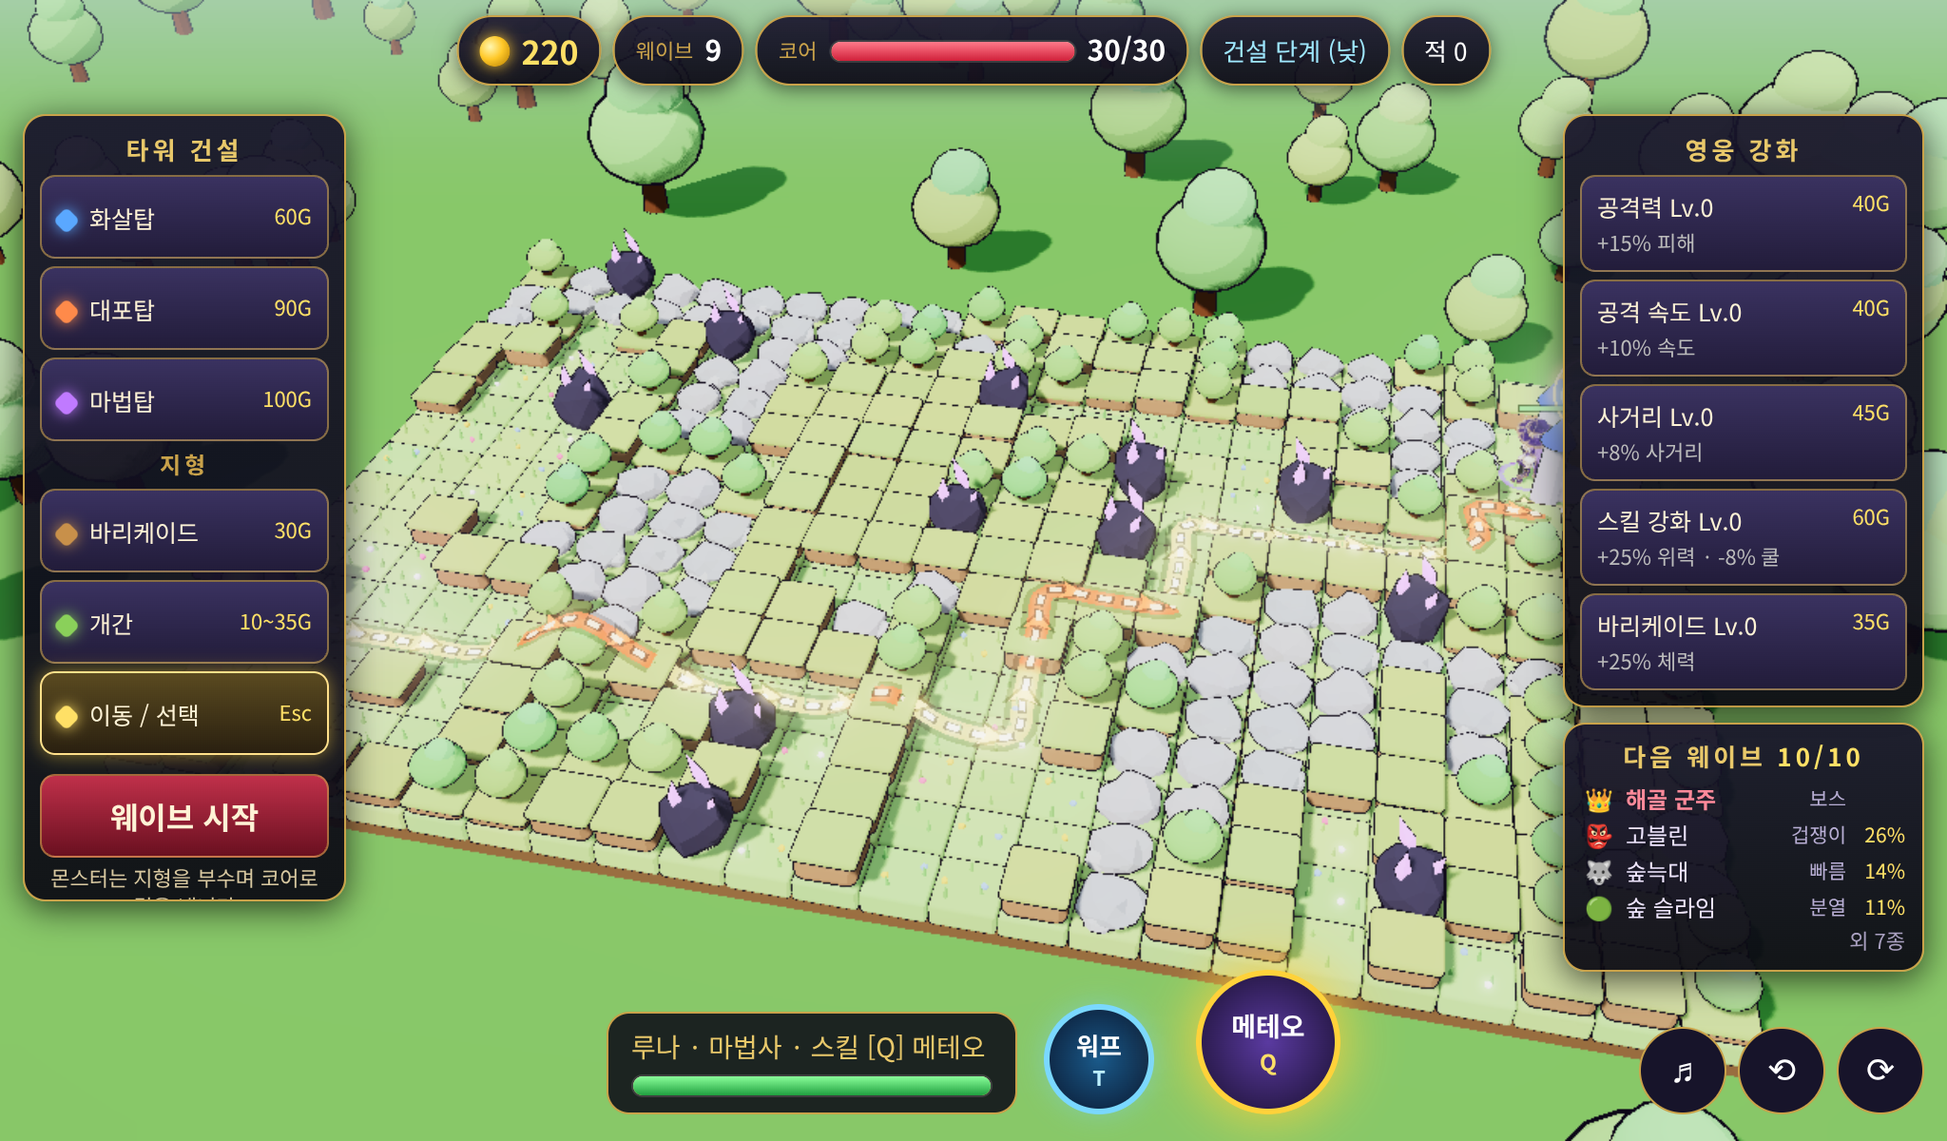
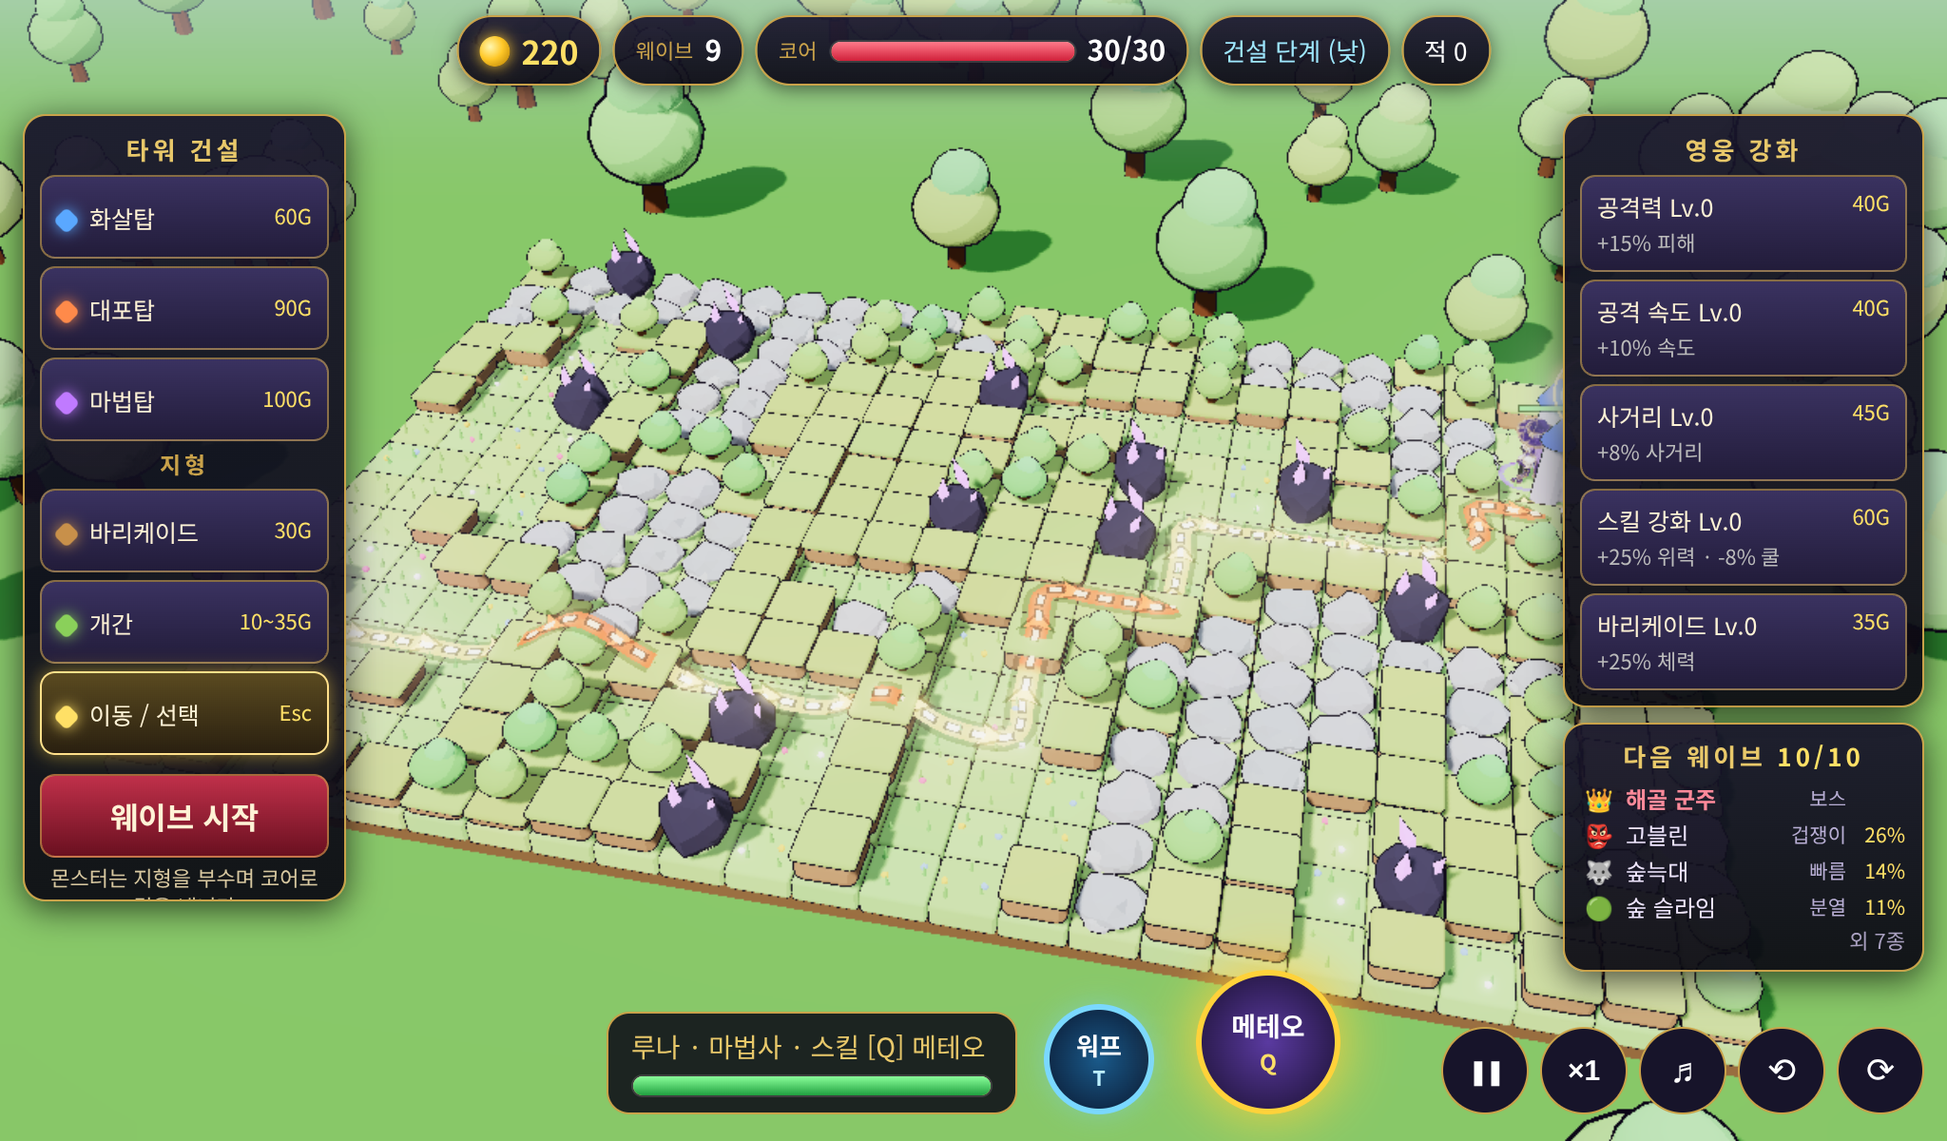
5. ×2 배속 / 일시정지: 같은 길이 스텝 G.speed 번(큰 dt 아님), 일시정지 = 시뮬레이션·키·클릭 차단 + 오버레이, 탭 숨김 시 자동 정지, 판 밖이면 ×1·해제. 터치 46px, P/F 키. speed.py 17/17, waveprev 14/14, tablet 203/203, regress 4 known, node 8/8

Changed region(s): [[0.7188, 0.8942, 0.8438, 0.9867]]

diff --git a/src/ui/speed.js b/src/ui/speed.js
@@ -1,0 +1,25 @@
+// ×2 배속 · 일시정지 (판 안: 건설/전투 단계). 배속 = 한 프레임에 같은 길이의 시뮬레이션 스텝을 G.speed 번 (main.js loop) → 물리·AI 간격은 그대로라 결과가 안정적
+// 일시정지 = 시뮬레이션 정지 + 화면 전체를 덮는 오버레이로 게임 입력 차단 (키보드는 input.js 가 G.paused 면 무시). P 키 = 일시정지, F 키 = 배속
+import { $ } from '../core/util.js';
+import { G } from '../core/state.js';
+import { Snd } from '../audio/audio.js';
+G.speed = 1; G.paused = false;
+const inRun = () => G.phase === 'build' || G.phase === 'wave';
+function sync() {
+  const sb = $('speedBtn'), pb = $('pauseBtn'), ov = $('pauseOv'); if (!sb) return;
+  sb.textContent = '×' + G.speed; sb.classList.toggle('on', G.speed > 1); sb.setAttribute('aria-pressed', G.speed > 1);
+  pb.classList.toggle('on', G.paused); ov.classList.toggle('hidden', !G.paused);
+}
+export function setPaused(on) { on = !!on && inRun(); if (G.paused === on) return sync(); G.paused = on; Snd.play('ui'); sync(); }
+export function setSpeed(v) { G.speed = v === 2 ? 2 : 1; Snd.play('ui'); sync(); }
+export const togglePause = () => setPaused(!G.paused), toggleSpeed = () => setSpeed(G.speed === 2 ? 1 : 2);
+$('pauseBtn').onclick = e => { e.stopPropagation(); togglePause(); };
+$('speedBtn').onclick = e => { e.stopPropagation(); if (!G.paused) toggleSpeed(); };
+$('pauseGo').onclick = e => { e.stopPropagation(); setPaused(false); };
+addEventListener('keydown', e => { if (e.repeat || e.target && /^(INPUT|TEXTAREA)$/.test(e.target.tagName)) return; const k = e.key.toLowerCase();
+  if (k === 'p' && inRun()) togglePause(); else if (k === 'f' && inRun() && !G.paused) toggleSpeed(); });
+// 판 밖(결과 'over'·영웅 선택·마을·메뉴)이면 일시정지 해제 + 배속 ×1 로 → 다음 판(스테이지 출정은 새로고침, 마을 '도전'은 같은 페이지)은 항상 ×1 로 시작. 판 안에서는 웨이브가 바뀌어도 유지
+setInterval(() => { if (!inRun() && (G.paused || G.speed !== 1)) { G.paused = false; G.speed = 1; sync(); } }, 300);
+// 태블릿: 앱 전환·화면 끔(탭 숨김) 때 판 중이면 자동 일시정지 (돌아오면 오버레이에서 계속하기)
+document.addEventListener('visibilitychange', () => { if (document.visibilityState === 'hidden' && inRun() && !G.manual) setPaused(true); });
+G.setPaused = setPaused; G.setSpeed = setSpeed; sync();

diff --git a/src/ui/input.js b/src/ui/input.js
@@ -64,7 +64,7 @@ cvs.addEventListener('pointerdown', e => {
 });
 addEventListener('pointerup', e => { if (rdrag && e.button === 2 && Math.hypot(e.clientX - rdrag.x0, e.clientY - rdrag.y0) < 6 && G.tool !== 'move') setTool('move'); rdrag = null; });
 cvs.addEventListener('wheel', e => { cam.r = Math.min(90, Math.max(14, cam.r + e.deltaY * .03)); }, { passive: true });
-addEventListener('keydown', e => { const k = e.key.toLowerCase(); keys[k] = true; if (k === 'q') castSkill(); if (k === 't' && !e.repeat) startWarp(); if (k === 'e' && !e.repeat) castLegend(); if (k === 'r' && !e.repeat) { if (G.sel && G.sel.kind === 'tower') repairTower(G.sel); else repairAll(); refreshHud(); } const tools = ['arrow', 'cannon', 'magic', 'barricade', 'clear']; if (e.key >= '1' && e.key <= '5') setTool(tools[+e.key - 1]); if (e.key === 'Escape') { setTool('move'); select(null); } if (e.key === ' ' && G.phase === 'build') { e.preventDefault(); startWave(); } });
+addEventListener('keydown', e => { if (G.paused) return; const k = e.key.toLowerCase(); keys[k] = true; if (k === 'q') castSkill(); if (k === 't' && !e.repeat) startWarp(); if (k === 'e' && !e.repeat) castLegend(); if (k === 'r' && !e.repeat) { if (G.sel && G.sel.kind === 'tower') repairTower(G.sel); else repairAll(); refreshHud(); } const tools = ['arrow', 'cannon', 'magic', 'barricade', 'clear']; if (e.key >= '1' && e.key <= '5') setTool(tools[+e.key - 1]); if (e.key === 'Escape') { setTool('move'); select(null); } if (e.key === ' ' && G.phase === 'build') { e.preventDefault(); startWave(); } });
 addEventListener('keyup', e => keys[e.key.toLowerCase()] = false);
 $('rotL').onclick = () => { cam.theta += Math.PI / 4; Snd.play('ui'); }; $('rotR').onclick = () => { cam.theta -= Math.PI / 4; Snd.play('ui'); };
 function occupied(c, r) {

diff --git a/src/main.js b/src/main.js
@@ -32,6 +32,7 @@ import { hurt, spawnEnemy } from './monsters/enemy.js';
 import { separate, updEnemies, updLod } from './monsters/ai.js';
 import { Q } from './render/quality.js';
 import './ui/gfx.js';
+import './ui/speed.js';
 import { hero, heroDamage, heroGoTo, updHero } from './heroes/hero.js';
 import { castSkill } from './heroes/skills.js';
 import { castLegend, updLegend } from './heroes/legend.js';
@@ -64,7 +65,7 @@ function updLighting(dt) {
   sun.color.setHSL(LIGHT.sunH, .6 - n * .3, .88 - n * .2); bloom.strength = (.32 + n * .22) * LIGHT.bloomK; portalLight.intensity = 20 + n * 60 + Math.sin(G.t * 6) * 8; coreLight.intensity = 3 + n * 5;
 }
 let lastT = performance.now(), hudT = 0;
-function loop() { requestAnimationFrame(loop); const now = performance.now(), raw = (now - lastT) / 1000; lastT = now; if (!G.manual) step(Math.min(raw, .05));
+function loop() { requestAnimationFrame(loop); const now = performance.now(), raw = (now - lastT) / 1000; lastT = now; if (!G.manual && !G.paused) { const dt = Math.min(raw, .05); for (let i = 0; i < (G.speed || 1); i++) step(dt); } // ×2 배속 = G.sim 처럼 같은 길이 스텝을 여러 번(더 큰 dt 아님), 일시정지 = 정지 (src/ui/speed.js)
   Q.tick(raw, !G.manual && (G.phase === 'build' || G.phase === 'wave')); if (!G.pauseRender) { updLod(); composer.render(); } }
 G.Snd = Snd; G.sim = (sec, h = .05) => { for (let t = 0; t < sec; t += h) step(h); };
 function step(dt) {

diff --git a/style.css b/style.css
@@ -447,3 +447,10 @@ input,textarea{-webkit-user-select:text;user-select:text}
 .wpT{color:#b8aed4;font-size:10.5px;flex:none;max-width:60px;overflow:hidden;text-overflow:ellipsis}.wpP{color:#ffe066;font-size:10.5px;width:26px;text-align:right;flex:none}
 .wpRow.boss .wpNm{color:#ff8a9a;font-weight:bold}.wpMore{font-size:11px;color:#a9a0c0;text-align:right}
 #wavePrev.compact .wpList{flex-direction:row;flex-wrap:nowrap;gap:4px;overflow:hidden}#wavePrev.compact .wpI{font-style:normal;font-size:17px;width:22px;text-align:center}#wavePrev.compact .wpI.boss{filter:drop-shadow(0 0 3px #ff4a5a)}
+
+/* ×2 배속 · 일시정지 — src/ui/speed.js */
+#cam #speedBtn{font-size:15px;font-weight:bold}#cam button.on{background:linear-gradient(#e8c86a,#b8902a);color:#1a1020;border-color:#ffe08a}
+#cam #pauseBtn{font-size:13px;letter-spacing:-2px}
+#pauseOv{position:fixed;inset:0;z-index:44;pointer-events:auto;background:#05040acc;display:flex;align-items:center;justify-content:center;backdrop-filter:blur(2px)}
+#pauseOv .pBox{display:flex;flex-direction:column;align-items:center;gap:14px;padding:22px 34px;border:1px solid #c9a24a;border-radius:16px;background:linear-gradient(#17142aee,#0a0912ee)}
+#pauseOv .pT{font-size:28px;font-weight:bold;color:#ffe066;letter-spacing:4px}#pauseOv #pauseGo{min-width:200px;min-height:52px;font-size:18px}#pauseOv .pH{font-size:12px;color:#a9a0c0}

diff --git a/index.html b/index.html
@@ -57,7 +57,8 @@
     <div class="gfxRow"><span>그래픽</span><div class="gfxSeg"><button data-gfx="auto">자동</button><button data-gfx="high">고품질</button><button data-gfx="perf">성능</button></div></div><div class="gfxNow"></div>
     <div class="sndHint">M 키: 전체 음소거</div>
   </div>
-  <div id="cam"><button id="sndBtn" title="소리 설정">&#9835;</button><button id="rotL" title="왼쪽 회전">⟲</button><button id="rotR" title="오른쪽 회전">⟳</button></div>
+  <div id="cam"><button id="pauseBtn" title="일시정지 (P)">&#10074;&#10074;</button><button id="speedBtn" title="배속 ×1 / ×2 (F)">×1</button><button id="sndBtn" title="소리 설정">&#9835;</button><button id="rotL" title="왼쪽 회전">⟲</button><button id="rotR" title="오른쪽 회전">⟳</button></div>
+  <div id="pauseOv" class="hidden"><div class="pBox"><div class="pT">일시정지</div><button id="pauseGo" class="gbtn main">▶ 계속하기</button><div class="pH">P 키로도 멈추고 계속할 수 있어요</div></div></div>
   <div id="help">좌클릭 이동/건설/선택 · WASD 이동 · Q 스킬 · T 워프 · R 타워 수리 · 1~5 도구 · 우클릭 드래그 회전 · 휠 확대 · Space 웨이브</div>
   <div id="banner"></div>
   <div id="modeInd" class="hidden"></div>

diff --git a/tests/speed.py b/tests/speed.py
@@ -1,0 +1,49 @@
+#!/usr/bin/env python3
+"""×2 배속 / 일시정지(5) 테스트.  python3 tests/speed.py
+ - 배속: 같은 실제 시간에 G.t 가 약 2배 · 일시정지: G.t 정지, 키보드(Q 스킬)·화면 클릭 차단, 계속하기/P 키 해제, 판 밖에서는 해제 · 터치 대상 44px
+ 스크린샷 shots/improve/p5_pause.png, p5_speed.png, p5_pause_1024x600.png, p5_speed_1024x600.png"""
+import sys, os, json
+sys.path.insert(0, os.path.dirname(__file__))
+from regress import serve, ARGS, HELP
+from playwright.sync_api import sync_playwright
+OUT = 'shots/improve'; os.makedirs(OUT, exist_ok=True)
+srv, url = serve(); res, errs = {}, []
+def ok(n, c, info=''): res[n] = bool(c); print(('OK  ' if c else 'FAIL'), n, info, flush=True)
+J = lambda pg, js, *a: pg.evaluate(js, *a)
+def page(pw, q, vp, touch=False, dpr=1):
+    b = pw.chromium.launch(args=ARGS); c = b.new_context(viewport={'width': vp[0], 'height': vp[1]}, device_scale_factor=dpr, has_touch=touch, is_mobile=touch); pg = c.new_page()
+    pg.on('console', lambda m: m.type == 'error' and errs.append(m.text[:200])); pg.on('pageerror', lambda x: errs.append('PE ' + str(x)[:300]))
+    pg.goto(url + '?seed=12345&rng=777&test=1' + q); pg.wait_for_function('()=>window.G&&G.ready', timeout=180000); pg.evaluate(HELP); return b, pg
+with sync_playwright() as pw:
+    # 터치 크기 (태블릿 가로 1024x600)
+    b, pg = page(pw, '&stage=1-2', (1024, 600), True, 2); J(pg, "()=>G.choose('mage')"); J(pg, '()=>G.sim(.3)')
+    sz = J(pg, "()=>['pauseBtn','speedBtn'].map(id => { const r = document.getElementById(id).getBoundingClientRect(); return [Math.round(r.width), Math.round(r.height)]; })")
+    ok('speed_pause_touch_44', all(w >= 44 and h >= 44 for w, h in sz), sz)
+    pg.tap('#pauseBtn'); pg.wait_for_timeout(200); ok('tap_pause', J(pg, '()=>G.paused')); pg.screenshot(path=f'{OUT}/p5_pause_1024x600.png')
+    pg.tap('#pauseGo'); pg.wait_for_timeout(200); ok('tap_resume', not J(pg, '()=>G.paused')); pg.tap('#speedBtn'); pg.wait_for_timeout(200); ok('tap_speed', J(pg, '()=>G.speed') == 2)
+    pg.screenshot(path=f'{OUT}/p5_speed_1024x600.png'); b.close()
+    # 배속 = 같은 길이(≤0.05초) 스텝을 G.speed 번 (더 큰 dt 아님) — main.js loop 소스 확인
+    src = open('src/main.js', encoding='utf-8').read()
+    ok('speed_is_substeps', 'const dt = Math.min(raw, .05); for (let i = 0; i < (G.speed || 1); i++) step(dt);' in src and 'if (!G.manual && !G.paused)' in src)
+    # ---- 배속 / 일시정지 (실시간 루프) ----
+    b, pg = page(pw, '', (1280, 760)); J(pg, "()=>G.choose('warrior')"); J(pg, "()=>{ G.startWave(); }")
+    # 프레임당 진행 시간 (swiftshader 는 CPU 한계라 실제 시간 기준 비율은 의미 없음 → 프레임당 G.t 증가량 비교)
+    RT = "(ms)=>new Promise(r => { let f = 0; const tick = () => { f++; if (!done) requestAnimationFrame(tick); }; let done = false; requestAnimationFrame(tick); const t0 = G.t; G.manual = false; setTimeout(() => { G.manual = true; done = true; r((G.t - t0) / Math.max(1, f)); }, ms); })"
+    t1 = J(pg, RT, 2500); pg.click('#speedBtn'); t2 = J(pg, RT, 2500)
+    ok('speed_x2', J(pg, '()=>G.speed') == 2 and pg.inner_text('#speedBtn') == '×2' and t2 > t1 * 1.7, (round(t1, 4), round(t2, 4)))
+    pg.screenshot(path=f'{OUT}/p5_speed.png')
+    J(pg, "()=>{ G.manual = false; }"); pg.click('#pauseBtn'); pg.wait_for_timeout(200)
+    st = J(pg, "()=>[G.paused, !document.getElementById('pauseOv').classList.contains('hidden'), G.t]"); pg.wait_for_timeout(1200); t3 = J(pg, '()=>G.t')
+    cd0 = J(pg, '()=>G.hero.skillCd'); pg.keyboard.press('q'); pg.wait_for_timeout(200); cd1 = J(pg, '()=>G.hero.skillCd')
+    top = J(pg, "()=>{ const e = document.elementFromPoint(innerWidth / 2, innerHeight / 2 + 120); return e && !!e.closest('#pauseOv'); }")
+    ok('pause_freezes', st[0] and st[1] and abs(t3 - st[2]) < 1e-9, (st, t3)); ok('pause_blocks_keys', cd0 == cd1 == 0, (cd0, cd1)); ok('pause_blocks_clicks', top)
+    pg.screenshot(path=f'{OUT}/p5_pause.png')
+    pg.click('#pauseGo'); pg.wait_for_timeout(600); ok('resume', not J(pg, '()=>G.paused') and J(pg, '()=>G.t') > t3)
+    pg.keyboard.press('p'); ok('p_key_pause', J(pg, '()=>G.paused')); pg.keyboard.press('p'); ok('p_key_resume', not J(pg, '()=>G.paused'))
+    pg.keyboard.press('f'); ok('f_key_speed', J(pg, '()=>G.speed') == 1)
+    J(pg, "()=>{ G.manual = false; Object.defineProperty(document, 'visibilityState', { get: () => 'hidden', configurable: true }); document.dispatchEvent(new Event('visibilitychange')); delete document.visibilityState; }")
+    ok('auto_pause_when_hidden', J(pg, '()=>G.paused')); J(pg, "()=>G.setPaused(false)")
+    J(pg, "()=>{ G.setSpeed(2); G.setPaused(true); G.phase = 'over'; }"); pg.wait_for_timeout(700); ok('speed_reset_after_run', J(pg, '()=>G.speed') == 1 and pg.inner_text('#speedBtn') == '×1'); ok('unpause_when_over', not J(pg, '()=>G.paused') and J(pg, "()=>document.getElementById('pauseOv').classList.contains('hidden')"))
+    J(pg, '()=>{ G.manual = true; }'); b.close()
+print('errors', errs[:5]); ok('no_console_errors', not errs)
+print('ALL OK' if all(res.values()) else 'FAILED'); sys.exit(0 if all(res.values()) else 1)

diff --git a/docs/REVIEW.md b/docs/REVIEW.md
@@ -10,7 +10,7 @@
 - [x] 3. P-2 지연 로딩 + budeul_gear.glb 압축 — `characters.js` 모델 키별 1회 로드(promise 캐시) `loadModel/ensureModels/whenModels/loadBackground`, 경로는 여전히 `models/${k}.glb` 한 곳(.glb 를 바꿔 끼워도 그대로 동작). `main.js bootPlan`: 스테이지 출정 = 몬스터 모델 + 저장 영웅(유료면 대체 마법사, 버들이면 장비·변신 로봇)만, 백그라운드 없음 / 인트로·마을 = 저장 영웅만 먼저 → 백그라운드로 몬스터 → 무료 영웅 → 유료 영웅·로봇(버들 저장이면 로봇 먼저) / `?test`·`?skipintro` = 전부(회귀 테스트 불변, `?lazy` 로 지연). 필요한 순간 대기: `choose()`(판 시작 전 몬스터+영웅+로봇 받기, 로딩 표시), 마을 영웅·상점 미리보기·영웅 단상은 도착하면 표시. 변신 로봇 안전장치: `mechInit` 이 로봇 모델이 없으면 받는 즉시 붙이고, 그 전 Q(변신)는 쿨다운 소모 없이 '변신 로봇 준비 중…'. `budeul_gear.glb` gltfpack(meshopt, 위치·UV float 유지, 노드 이름·extras.tip·텍스처 동일) **1.27 MB → 0.54 MB**. 첫 로딩(`tests/lazy.py`, 페이지 전체/모델): 이전 모든 경우 **13.97 / 10.61 MB** → 첫 방문 인트로 **4.56 / 1.20**, 스테이지 마법사 **6.50 / 3.14**, 스테이지 버들 **9.47 / 6.10**, 마을(총사 저장) **5.95 / 2.58** (`shots/improve/p3_firstload{,_before}.json`). 버들 비교 `tests/gearcmp.py` 4자세 평균 픽셀 차 0.01~0.02, 24 초과 픽셀 ≤ 0.005% (가장자리 음영 반올림, 눈으로 동일 — `shots/improve/p3_gear_{orig,new,diff}_*.png`). lazy 16/16, budeul 51/51, shop 38/38, regress 4 known, node 8/8
 - [x] 3b. 버들(메카닉) 임시 숨김 (사용자 요청, 리디자인 중 — `/workspace/budeul_study`) — 플래그 하나 `src/data/heroes.js` `CLASSES.mechanic.hidden: true` → `HIDDEN_HEROES`/`VISIBLE_HEROES`/`isHidden`/`DEFAULT_HERO`(보이는 첫 무료 영웅 = 실바 · 궁수). 따라가는 곳: 영웅 선택 카드·단상(`select.js`, `choose(숨긴 영웅)` → 기본 영웅), 마을 영웅 카드(`flow.js`), 상점 목록·관리자 지급 목록(`ui/shop.js PKEYS`), 구매 신청 거부(`account/shop.js onSale`, `heroOwned` false → `usableHero` = 기본 영웅), 모델 로딩 제외(`characters.js` `ASSETS = ALL_ASSETS - HIDDEN_ASSETS`, budeul_meshy·budeul_gear·mech_robot_meshy, `loadModel` 도 거부), 새 드롭/상자/제작 무기(`equip.randomItem` → 기본 영웅 무기), 저장 영웅 이전(`progress.clean` + `account.load` 가 즉시 저장, 클라우드는 hero 가 다르면 다시 저장). **유지**: 서버 hd3d_owned·대기 중 주문·버들 아이템/장착/강화 Lv·코드·schema 상품·`config/shop.js` 상품 정의 → `hidden` 을 지우면 그대로 복구 (단, 숨김 중 이전된 저장 영웅은 실바로 남음). 테스트: heroes.test(숨김 플래그 일관성·선택 불가·상점 미판매·구매 거부·저장 이전·아이템 유지·드롭 없음), equip.test 숨김 반영, budeul.py 는 숨김 중 SKIP(삭제 안 함), lazy.py 숨김 분기(버들 모델 요청 0, 저장 이전, 상점/마을 카드 없음, `shots/improve/p3b_firstload_hidden.json`: 버들 저장 스테이지 출정 9.47 → 6.53 MB). 결과: node 8/8, lazy 21/21, shop 38/38, rose 14/14, equip 31/31, regress 4 known, budeul SKIP
 - [x] 4. 다음 웨이브 미리보기 — `core/roster.js previewWave(stage, n, classic)`: `startWave`/`stageWave`/`mixNewTypes`/`endlessMix` 구성 규칙을 확률로 옮긴 순수 함수(게임 난수 미사용) → 종류별 예상 마릿수 비율(무리 몬스터는 pack 반영), 새로 열리는 종류·아직 못 본 종류 NEW, 5의 배수·최종 웨이브 보스(챕터 보스 스테이지는 챕터 보스). `monTrait` 짧은 특성(비행/분열/치유/방패/굴착/자폭…, 줄에는 첫 특성만, 전체·설명은 title). `ui/waveprev.js`: 건설 단계에만 '영웅 강화' 패널 아래 ~ 카메라 버튼 위 빈 공간에 맞춰 줄 수 조절('외 N종'), 더 좁으면 아이콘 한 줄, 그래도 안 되면 숨김. `tests/waveprev.py` 14/14: 7개 화면 크기(1024×600 터치 포함)에서 HUD 겹침 0·화면 안·잘림 0, 내용 = previewWave, 전투 중 숨김, 최종 보스/챕터 보스 줄. roster.test: 모든 스테이지 웨이브에서 결정성·비율 합 1·실제 stageWave 표본 ⊂ 미리보기·최대 비율 오차 < 0.12. 스크린샷 `shots/improve/p4_preview_{1024x600,boss,chboss}.png`. regress 4 known, node 8/8
-- [ ] 5. ×2 배속 / 일시정지
+- [x] 5. ×2 배속 / 일시정지 — `src/ui/speed.js` + 카메라 줄 버튼 `❚❚`·`×1/×2`(터치 46px) · 키 P/F. 배속 = 한 프레임에 같은 길이(≤0.05초) 스텝을 `G.speed` 번(`G.sim` 과 같은 방식, 더 큰 dt 아님 → 물리·AI·충돌 간격 그대로). 일시정지 = 시뮬레이션 정지 + 화면 전체 오버레이(z 44: 타워 진화·상자 팝업 위, 스테이지 결과 아래)로 클릭 차단 + `input.js` 키 입력 무시, '▶ 계속하기'/P 로 해제, 판 중 탭 숨김(앱 전환·화면 끔) 시 자동 일시정지. 판 밖(over/선택/마을/메뉴)이 되면 일시정지 해제 + ×1 로 되돌림 → 다음 판은 항상 ×1(스테이지 출정은 새로고침이라 원래 ×1, 마을 '도전'은 같은 페이지), 판 안에서는 웨이브 사이에도 유지. 게임 타이머(`later`)는 시뮬레이션 시간이라 배속·정지와 일치. `tests/speed.py` 17/17 (터치 탭, 프레임당 G.t ≈ ×2 이상, 정지 중 G.t 불변·Q 무시·클릭 차단, 자동 정지, ×1 복귀). 스크린샷 `shots/improve/p5_{speed,pause}{,_1024x600}.png`. waveprev 14/14(버튼 늘어난 뒤 재확인), tablet 203/203, regress 4 known, node 8/8
 - [ ] 마무리: 전체 직렬 테스트, CHANGELOG/README, Pages 빌드 확인
 
 ## 0. 진행 상황 (리뷰 작성)
